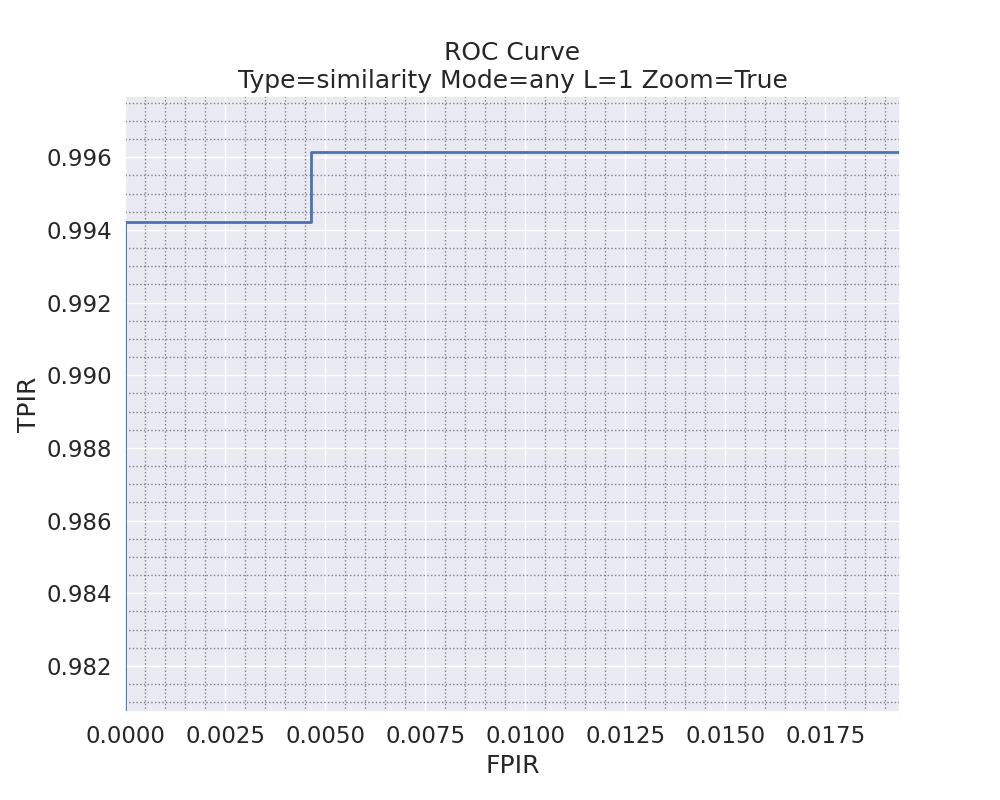
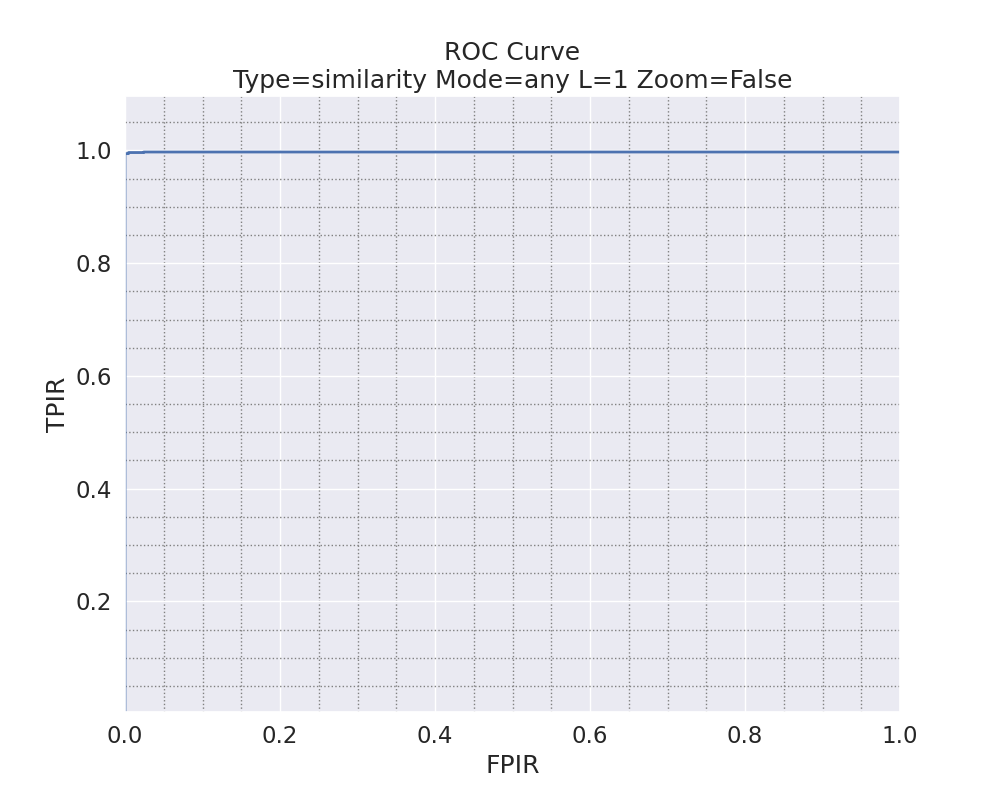
1

diff --git a/BioEstimation.py b/BioEstimation.py
@@ -25,24 +25,36 @@ class BioEstimation():
             distanceMax = numpy.asarray(distances).max()
             self.reals = [bconst.DISTANCE_TRUE_VALUE if reals else distanceMax]
 
-    def VerificationCurves(self, isMatrix=bconst.SIMILARITY):
+    def VerificationCurves(self, isMatrix=bconst.SIMILARITY, filepath="", zoom=False, zoom_rates={'fnfp': 1.0, 'tp': 0.9, 'fp': 0.1}):
         bioVerification = bv.BioVerification()
-        bioVerification.getFPRTPR(self.bioProbes, isMatrix)
+        fpr, fnr, thresholds = bioVerification.getFPRFNR(self.bioProbes, isMatrix)
+        bioDraw = bd.BioDraw()
+        curveName = 'FRR/FAR Curve\n' + 'Type=' + isMatrix + ' Zoom=' + str(zoom)
+        filename = filepath + '/FARFRR_' + isMatrix + ('_zoom' if zoom else '') + '.png'
+        bioDraw.drawErrorsOfThresholdCurve(curveName, 'FAR', fpr, 'FRR', fnr, thresholds, filename, zoom, zoom_rates['fnfp'])
+        curveName = 'ROC Curve\n' + 'Type=' + isMatrix + ' Zoom=' + str(zoom)
+        filename = filepath + '/ROC_' + isMatrix + ('_zoom' if zoom else '') + '.png'
+        tpr = 1 - fnr
+        bioDraw.drawRocCurve(curveName, 'FAR', fpr, 'TAR', tpr, filename, zoom, zoom_rates['tp'], zoom_rates['fp'])
 
     def IdentificationCurves(self, isMatrix=bconst.SIMILARITY, mode="any", L=1, filepath="", zoom=False, zoom_rates={'fnfp': 1.0, 'tp': 0.9, 'fp': 0.1}):
         bioIdentification = bi.BioIdentification()
         fpir, fnir, thresholds = bioIdentification.getFPIRFNIR(self.bioProbes, isMatrix, mode, L)
         bioDraw = bd.BioDraw()
         curveName =  'FPIR/FNIR Curve\n' + 'Type=' + isMatrix + ' Mode=' + mode + ' L=' + str(L) + ' Zoom=' + str(zoom)
-        filename = filepath + '/FPIRFNIR_' + isMatrix + '_' + mode + '_' + str(L) + '.png'
+        filename = filepath + '/FPIRFNIR_' + isMatrix + '_' + mode + '_' + str(L) + ('_zoom' if zoom else '') + '.png'
         bioDraw.drawErrorsOfThresholdCurve(curveName, 'FPIR', fpir, 'FNIR', fnir, thresholds, filename, zoom, zoom_rates['fnfp'])
         curveName = 'ROC Curve\n' + 'Type=' + isMatrix + ' Mode=' + mode + ' L=' + str(L) + ' Zoom=' + str(zoom)
+        filename = filepath + '/ROC_' + isMatrix + '_' + mode + '_' + str(L) +  ('_zoom' if zoom else '') + '.png'
         tpir = 1 - fnir
         bioDraw.drawRocCurve(curveName, 'FPIR', fpir, 'TPIR', tpir, filename, zoom, zoom_rates['tp'], zoom_rates['fp'])
 
 bioEstimation = BioEstimation(bconst.PROBES_PATH)
 
-bioEstimation.VerificationCurves(isMatrix=bconst.DISTANCE)
+bioEstimation.VerificationCurves(isMatrix=bconst.SIMILARITY, filepath="./output")
+bioEstimation.VerificationCurves(isMatrix=bconst.SIMILARITY, filepath="./output", zoom=True, zoom_rates={'fnfp': 0.05, 'tp': 0.98, 'fp': 0.02})
+bioEstimation.VerificationCurves(isMatrix=bconst.DISTANCE, filepath="./output")
+bioEstimation.VerificationCurves(isMatrix=bconst.DISTANCE, filepath="./output", zoom=True, zoom_rates={'fnfp': 0.05, 'tp': 0.98, 'fp': 0.02})
 
 #Ls = [1, 2, 3, 5, 10, 50, 100]
 #for L in Ls:

diff --git a/BioVerification.py b/BioVerification.py
@@ -1,6 +1,8 @@
 import BioConstants as bconst
 
 import sklearn.metrics
+import numpy
+import math
 
 class BioVerification():
     def __init__(self):
@@ -10,12 +12,35 @@ class BioVerification():
         probeIds, probePersons, galleryIds, galleryPersons, reals, distances, similarity = bioProbes.get()
         if isMatrix == bconst.DISTANCE:
             matrix = distances
+            maxD = numpy.max(matrix)
+            pos = math.floor(maxD)
+            reals_new = (1 - reals) * pos
+            pos = 0
         else:
             matrix = similarity
+            reals_new = reals.astype(int)
+            pos = 1
         pairs = set()
-        for i in
-
-        reals = [1 if reals else 0]
-
-        fpr, tpr, thresholds = sklearn.metrics.roc_curve(reals, matrix, pos_label=True)
+        realList = []
+        probeList = []
+        (m, n) = matrix.shape
+        for i in range(m):
+            for j in range(n):
+                if probeIds[i] == galleryIds[j]: continue
+                pair = frozenset({probeIds[i], galleryIds[j]})
+                if pair in pairs: continue
+                realList.append(reals_new[i][j])
+                probeList.append(matrix[i][j])
+                pairs.add(pair)
+        realList = numpy.asarray(realList)
+        probeList = numpy.asarray(probeList)
+        fpr, tpr, thresholds = sklearn.metrics.roc_curve(realList, probeList, pos_label=pos)
+        if isMatrix == bconst.DISTANCE:
+            fpr = 1 - fpr
+            tpr = 1 - tpr
         return fpr, tpr, thresholds
+
+    def getFPRFNR(self, bioProbes, isMatrix=bconst.SIMILARITY):
+        fpr, tpr, thresholds = self.getFPRTPR(bioProbes, isMatrix)
+        fnr = 1 - tpr
+        return fpr, fnr, thresholds
